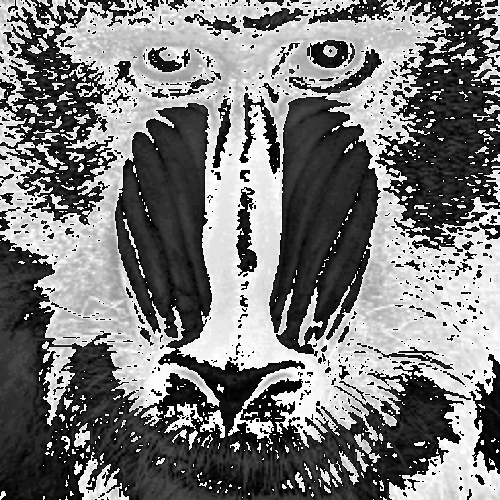
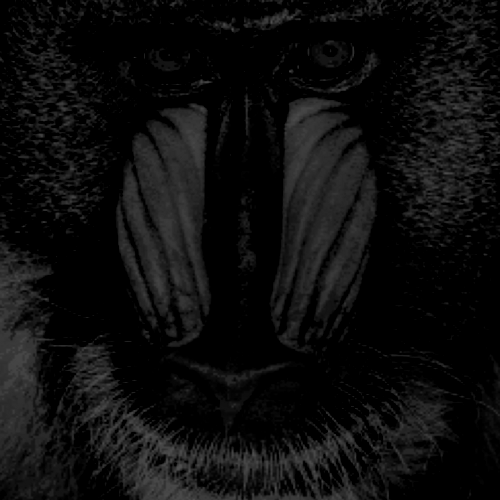
Activity 1 working TD 3

diff --git a/td3/src/fft.c b/td3/src/fft.c
@@ -29,7 +29,10 @@ conv_complex_to_uchar(fftw_complex* c_channel, int width, int height)
     for (int y = 0; y < height; y++)
         for (int x = 0; x < width; x++) {
             sign = (x + y) % 2 == 0 ? 1 : -1;
-            channel[x * width + y] = sign * c_channel[x * width + y];
+            int value = sign * creal(c_channel[x * width + y]);
+            if (value < 0) value = 0;
+            if (value > 255) value = 255;
+            channel[x * width + y] = value;
         }
 
     return channel;
